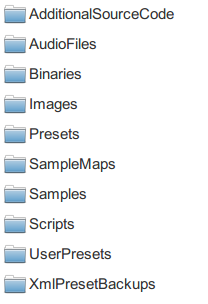
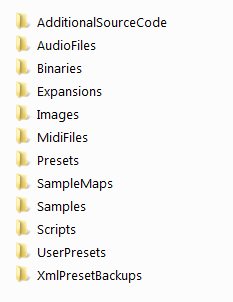
- miscellaneous little stuff

Changed region(s): [[0.0, 0.0, 0.8365, 0.9834]]

diff --git a/working-with-hise/project-management/Readme.md b/working-with-hise/project-management/Readme.md
@@ -6,60 +6,61 @@ icon:     /images/icon_filebrowser
 index:    01
 ---
 
-A general explanation of **HISE**s project architecture.
-## Folders
+A general explanation of **HISEs** project architecture.
 
-When you create a new project, HISE will set up a directory with a bunch of predefined folders that can hold all the data, files and scripts that you need in your instrument/plugin.
+## Project Folders
 
-These folders are categorized according to their file type and usage:
+When you create a new project, HISE will set up a directory with some predefined folders that will hold all the data, files and scripts that you need in your instrument/plugin.
+
+These folders are categorized according to their filetype and usage:
 
 ![image folderstructure](images/custom/folder.png)
 
-[AdditionalSourceCode](/working-with-hise/project-management/projects-folders/additional-source-code)
+- [AdditionalSourceCode](/working-with-hise/project-management/projects-folders/additional-source-code)
+  
+The place for additional C++ files that are used in connection with the [C++ API](c++_api).
 
-The place for additional C++ files that are used in connection with [HRaw].
-
-[AudioFiles](/working-with-hise/project-management/projects-folders/audio-files)
+- [AudioFiles](/working-with-hise/project-management/projects-folders/audio-files)
 
 Contains single audio-files that can be used in the [Audio Loop Player](/hise-modules/sound-generators/list/audiolooper) or the [Convolution Reverb](/hise-modules/effects/list/convolution).
 
-[Binaries](/working-with-hise/project-management/projects-folders/binaries)
+- [Binaries](/working-with-hise/project-management/projects-folders/binaries)
 
 Contains the `Source` and `temp` folders that are necessary to compile your instrument. After compilation your exported plugins will show up here in a `Compiled`-Folder
 
-[Images](/working-with-hise/project-management/projects-folders/images)
+- [Images](/working-with-hise/project-management/projects-folders/images)
 
 A folder that can contain image files and filmstrips for usage in the interface designer as well as a few predefined hooks (e.g. splashscreen and fonts). Per scripting accessible via `"{PROJECT_FOLDER}image.png"`.
 
-[MetaData](/working-with-hise/project-management/projects-folders/meta-data)
+- [MetaData](/working-with-hise/project-management/projects-folders/meta-data)
 
 The Metadata files () in the projects root folder. 
 
-[MidiFiles](/working-with-hise/project-management/projects-folders/midi-files)
+- [MidiFiles](/working-with-hise/project-management/projects-folders/midi-files)
 
 A folder for MIDI files used in the [Midiplayer](/hise-modules/midi-processors/list/midiplayer)
 
-[Presets](/working-with-hise/project-management/projects-folders/presets)
+- [Presets](/working-with-hise/project-management/projects-folders/presets)
 
 Contains the **HISE Preset files** (`.hip`), which are the save-files of your Projects plugin architecture. The auto-save files will also show up here.
 
-[SampleMaps](/working-with-hise/project-management/projects-folders/sample-maps)
+- [SampleMaps](/working-with-hise/project-management/projects-folders/sample-maps)
 
 When you mapped samples in the [Sampler](/hise-modules/sound-generators/list/streamingsampler) this folder will hold the `SampleMap.xml`'s that point to your samples.
 
-[Samples](/working-with-hise/project-management/projects-folders/samples)
+- [Samples](/working-with-hise/project-management/projects-folders/samples)
 
 The folder for your samples and the compressed `.ch1`-monolith files.
 
-[Scripts](/working-with-hise/project-management/projects-folders/scripts)
+- [Scripts](/working-with-hise/project-management/projects-folders/scripts)
 
 If you create an interface for your instrument this folder will hold the main `interface.js`-file + all the scripts that you need for building the GUI and user-interactions of your instrument.
 
-[UserPresets](/working-with-hise/project-management/projects-folders/user-presets)
+- [UserPresets](/working-with-hise/project-management/projects-folders/user-presets)
 
 The folder for the User-`.presets` that can save different states of your instruments GUI. You can easily organize these with the [Presetbrowser](/ui-components/floating-tiles/plugin/presetbrowser)-FloatingTile.
 
-[XmlPresetBackups](/working-with-hise/project-management/projects-folders/xml-preset-backups)
+- [XmlPresetBackups](/working-with-hise/project-management/projects-folders/xml-preset-backups)
 
 The folder for your **HISE presets** human readable `.xml` savefiles. 
 

diff --git a/hise-modules/Readme.md b/hise-modules/Readme.md
@@ -27,9 +27,9 @@ Every Module has a topbar with at least four controls:
 
 Behind the scenes (in the module `.xml`-tree) every **HISE Module** is called Processor. Each modules has its specific "Type=" attribute, that declares what it "is" and a unique **Processor ID** that identifies the individual module. A [script reference](/scripting/scripting-in-hise#module-references) to a module needs a consistent **Processor ID** to point to, so be careful to change the **Processor ID** later on, because it will probably break your references.  
 
-A **right click** on the topbar opens a dialog in which you can copy the Modules `.xml` to the clipboard. You can paste it into a ParentProcessor to create a duplicate of it.
+A **right click** on the topbar of a module opens a dialog in which you can copy the modules `.xml` to the clipboard. You can paste it into a ParentProcessor to create a duplicate of it.
 
-There's also the option to ["create a script reference"](/scripting/scripting-in-hise#module-references) to the Module. Paste this into a ScriptProcessors `onInit` Callback to change its attributes with scripting. 
+In the dialog you'll also find an option to ["create a script reference"](/scripting/scripting-in-hise#module-references) to the module. Paste it into a ScriptProcessors `onInit` callback to access the modules attributes with scripting. 
 
 
 ### HISE module reference types

diff --git a/working-with-hise/workspaces/main-workspace/module-panel.md b/working-with-hise/workspaces/main-workspace/module-panel.md
@@ -5,7 +5,7 @@ index:    02
 ---
 ![Left Panel](images/custom/main-panel.png)
 
-The **Module Panel** is the space where you patch together the [HISE DSP Modules](/hise-modules) of your plugin/instrument. It always holds the **Master Chain**, which is the parent element of all Modules that you add to it. Click the **plus icon** to add a new [Sound Generator](/hise-modules/sound-generators).
+The **Module Panel** is the space where you patch together [HISE DSP Modules](/hise-modules). It always holds the **Master Chain**, which is the parent element of all Modules that you add to it. Click the **plus icon** to add a new [Sound Generator](/hise-modules/sound-generators).
 
 In the signal chain it is also the first and last processed element. Every added [Midi Processor](/hise-modules/midi-processors) preceeds the MIDI Processors of any child and the Gain- and FX Chains are applied to the final sum of all generated sounds at the end.
 

diff --git a/working-with-hise/menu-reference/Readme.md b/working-with-hise/menu-reference/Readme.md
@@ -9,10 +9,12 @@ icon:     /images/icon_book
 
 This is the reference for the **HISE** menu toolbar.
  
-
-|  |  |  |  |  |  |
-| -- | -- | -- | -- | -- | -- |
-| [File](/working-with-hise/menu-reference/file) | [Edit](/working-with-hise/menu-reference/edit) | [Export](/working-with-hise/menu-reference/export) | [Tools](/working-with-hise/menu-reference/tools) | [View](/working-with-hise/menu-reference/view) | [Help](/working-with-hise/menu-reference/help) |
+* [File](/working-with-hise/menu-reference/file) 
+* [Edit](/working-with-hise/menu-reference/edit) 
+* [Export](/working-with-hise/menu-reference/export) 
+* [Tools](/working-with-hise/menu-reference/tools) 
+* [View](/working-with-hise/menu-reference/view)
+* [Help](/working-with-hise/menu-reference/help)
 
 
 

diff --git a/hise-modules/sound-generators/Readme.md b/hise-modules/sound-generators/Readme.md
@@ -6,11 +6,11 @@ icon:     /images/icon_speaker
 
 A sound generator is a HISE module that takes incoming MIDI data to generate audio signals.
 
-## Signal Path
 
-The sound generator renders polyphonic voices using the following graph:
 
-![SoundGenerators2](/images/custom/soundgenerators2.svg:1200px) 
+![SoundGenerators2](/images/custom/soundgenerators2.svg:1200px)
+
+> Notice the signal path: MIDI > Pitch Modulation > Polyphonic voices > Gain Modulation > FX. 
 
 ## Common parameters
 

diff --git a/introduction/tour/music-box.md b/introduction/tour/music-box.md
@@ -7,9 +7,9 @@ modified: 19.03.2019
 ---
 
 
-### Still under construcion: Rework of the Music Box
+### Still under construcion: Rework of the Music Box Tutorial
 
-- **features:**
+- **Outline: Vsti with:** 
   - 4 switchable Samplemaps
   - Filmstrip Interface
   - Panel Navigation

diff --git a/scriptnode/list/core/ramp_envelope.md b/scriptnode/list/core/ramp_envelope.md
@@ -1,0 +1,9 @@
+---
+keywords: Ramp Envelope
+summary:  Please enter a brief description.
+author:   Dominik Mayer
+modified: 29.08.2019
+properties:
+- Gate: Sets the Gate threshold
+- Ramp Time: Sets the time it takes to ramp
+---
